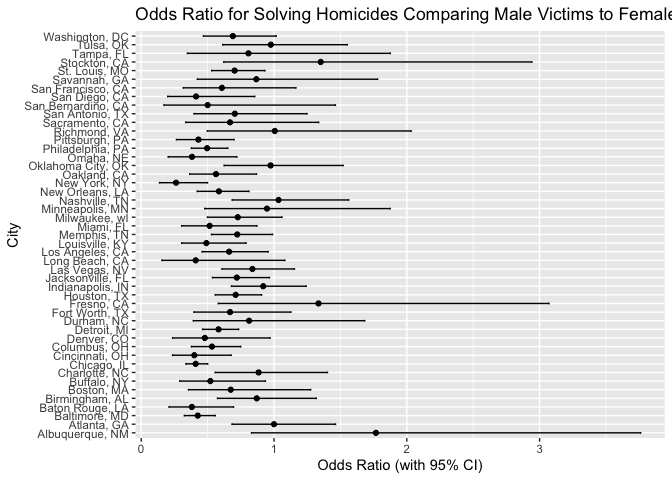
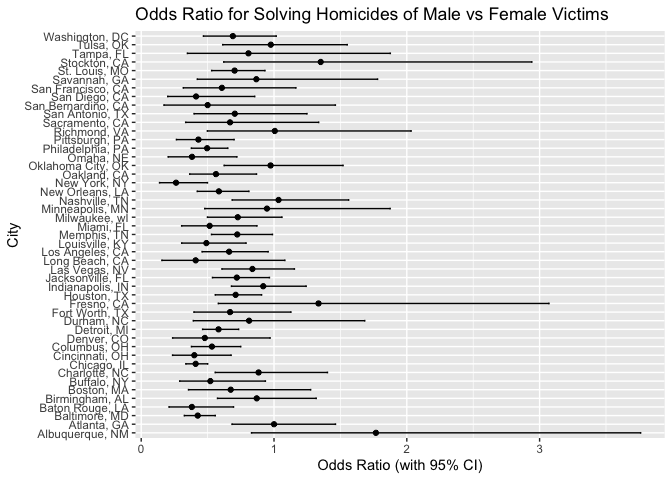
tried to solve issue with OR graph but couldnt fix it in office hours

Changed region(s): [[0.5938, 0.0, 1.0, 0.0625]]

diff --git a/p8105_hw6_ms6826.md b/p8105_hw6_ms6826.md
@@ -236,18 +236,18 @@ print(results_df)
     ## 10 Cincinnati, OH       0.400    0.236     0.677
     ## # ℹ 37 more rows
 
-Create a plot that shows the estimated ORs and CIs for each city. MxS
-CANNOT GET THIS TO ORGANIZE BY OR
+Create a plot that shows the estimated ORs and CIs for each city.
 
 ``` r
-results_df |>  
+results_df |> 
+  mutate(odds_ratio=as.numeric(odds_ratio),
+         city_state=as.factor(city_state)) |> 
   arrange(odds_ratio) |> 
-  mutate(city_state = factor(city_state, levels = city_state)) |> 
   ggplot(aes(x=odds_ratio, y=city_state)) +
   geom_point() +
   geom_errorbar(aes(xmin = conf_low, xmax = conf_high), width = 0.2) +
     labs(
-    title = "Odds Ratio for Solving Homicides Comparing Male Victims to Female Victims",
+    title = "Odds Ratio for Solving Homicides of Male vs Female Victims",
     x = "Odds Ratio (with 95% CI)",
     y = "City"
   )
